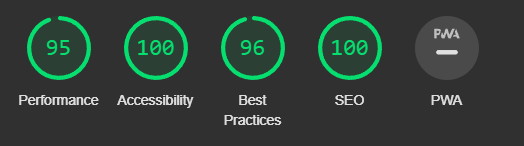
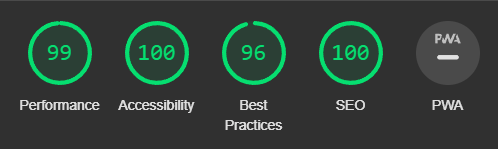
added new performance data after carrying out tweaks to html files and css to help improve this

diff --git a/club.html b/club.html
@@ -4,12 +4,12 @@
     <meta charset="UTF-8">
     <meta http-equiv="X-UA-Compatible" content="IE=edge">
     <meta name="viewport" content="width=device-width, initial-scale=1.0">
+    <!--Preload for hero image-->
+    <link rel="preload" as="image" href="assets/images/club.webp">
     <!--preconnect for offsite resources-->
     <link rel="preconnect" href="https://fonts.googleapis.com">
     <link rel="preconnect" href="https://fonts.gstatic.com/">
     <link rel="preconnect" href="https://ka-f.fontawesome.com">
-    <!--Preload for hero image-->
-    <link rel="preload" as="image" href="assets/images/club.webp">
     <!--bootstrap stylesheet-->
     <link rel="stylesheet" href="https://cdn.jsdelivr.net/npm/bootstrap@4.2.1/dist/css/bootstrap.min.css" integrity="sha384-GJzZqFGwb1QTTN6wy59ffF1BuGJpLSa9DkKMp0DgiMDm4iYMj70gZWKYbI706tWS" crossorigin="anonymous">
     <!--Hover Css-->

diff --git a/contact.html b/contact.html
@@ -4,12 +4,12 @@
     <meta charset="UTF-8">
     <meta http-equiv="X-UA-Compatible" content="IE=edge">
     <meta name="viewport" content="width=device-width, initial-scale=1.0">
+    <!--Preload for hero image-->
+    <link rel="preload" as="image" href="assets/images/club.webp">
     <!--preconnect for offsite resources-->
     <link rel="preconnect" href="https://fonts.googleapis.com">
     <link rel="preconnect" href="https://fonts.gstatic.com/">
     <link rel="preconnect" href="https://ka-f.fontawesome.com">
-    <!--Preload for hero image-->
-    <link rel="preload" as="image" href="assets/images/club.webp">
     <!--bootstrap stylesheet-->
     <link rel="stylesheet" href="https://cdn.jsdelivr.net/npm/bootstrap@4.2.1/dist/css/bootstrap.min.css" integrity="sha384-GJzZqFGwb1QTTN6wy59ffF1BuGJpLSa9DkKMp0DgiMDm4iYMj70gZWKYbI706tWS" crossorigin="anonymous">
     <!--Hover Css-->

diff --git a/README.md b/README.md
@@ -450,35 +450,35 @@ Overall loading times and performance were tested using Google’s lighthouse to
 <summary>Home Page</summary>
 <img src="docs/home-performance.png">
 <br>
-
+The main issue seen here is LCP, specifically due to render delay for the hero image which is around 2,880ms on average over multiple tests. Steps have been taken to improve this, such as pre-caching the image in HTML, shifting where the image is called in the CSS file, shifting to webp files and compressing the file to sub 200kb to minimise load times. However I am unable to reduce this further. 
 </details>
 
 <details>
 <summary>Club Page</summary>
 <img src="docs/club-performance.png">
 <br>
-The main callouts provided here were around improperly sized images, the hero image itself and again suggestions to preconnect to google fonts and having render blocking resources from bootstrap, hoverr.css and fontawesome. 
+Unlike the home page, the club page shows much better LCP times, with its render delay being the main culprit with times averaging around 1,050ms. The same techniques for the homepage are being used here to preload the hero image to ensure speedy response times. 
 </details>
 
 <details>
 <summary>Contact Page</summary>
 <img src="docs/contact-performance.png">
 <br>
-The only two main negative callouts were again suggestions to preconnect to google fonts and having render blocking resources from bootstrap, hoverr.css and fontawesome. 
+The main issue highlighted on the contact page was that bootstrap and hover.css are blocking the first paint of the page. However the impact is very negligable. 
 </details>
 
 <details>
 <summary>Response Page</summary>
 <img src="docs/response-performance.png">
 <br>
-The two main negative callouts were due to having render blocking resources from bootstrap, hoverr.css and fontawesome and also a suggestion to reduce unused CSS, which was highlighted as coming from Bootstrap and FontAwesome. 
+Much like the contact page, the main issue highlighted on the response page was that bootstrap and hover.css are blocking the first paint of the page. However the impact is very negligable. 
 </details>
 
 <details>
 <summary>404 Page</summary>
 <img src="docs/404-performance.png">
 <br>
-This page only had a singular call out, which was the render blocking resources from from bootstrap, hoverr.css and fontawesome.
+This page only had a singular call out, which was the render blocking resources from from bootstrap. Again, this isnt overly impacting performance in testing so isnt a huge issue. 
 </details>
 
 </details>
@@ -489,39 +489,39 @@ This page only had a singular call out, which was the render blocking resources 
 <details>
 <summary>Home Page</summary>
 <img src="docs/home-performance-mob.png">
-<br>Performance issues were suggested to be relating to the hero image. Render Blocking resources from Bootstrap, Hover.css and FontAwesome CDNs, specifically relating to their externally sourced CSS and JS. Similarly, Bootstrap and FontAwesome were also called out for having unused CSS. 
+<br>Much like on the desktop, the hero image is presenting the mainstay of issues here despite steps taken to try to mitigate this. This time with the LCP being 15.5s
 <br>
-The accessability score was dropped due one of the column images being seen as low quality. 
+The Best Practices score was dropped due the column images being seen as low resolution, specifically the 'build.webp' image, interestingly the other two images were not called out, despite them all being the same size and DPI. 
 </details>
 
 <details>
 <summary>Club Page</summary>
 <img src="docs/club-performance-mob.png">
 <br>
-Like with the home page performance issues were suggested to be relating to the hero image. Render Blocking resources from Bootstrap, Hover.css and FontAwesome CDNs, specifically relating to their externally sourced CSS and JS. Similarly, Bootstrap and FontAwesome were also called out for having unused CSS. 
+Like with the home page performance issues were suggested to be relating to the hero image. With the main issue again being render delay, hitting 7,330ms. 
 </details>
 
 <details>
 <summary>Contact Page</summary>
 <img src="docs/contact-performance-mob.png">
 <br>
-Much like with the previous two pages performance issues were suggested to be relating to the hero image. Render Blocking resources from Bootstrap, Hover.css and FontAwesome CDNs, specifically relating to their externally sourced CSS and JS. Similarly, Bootstrap and FontAwesome were also called out for having unused CSS. 
+As with the other tests, the render delay for the hero image is again dragging the performance score down, with it hitting 2,440ms. 
 </details>
 
 <details>
 <summary>Response Page</summary>
 <img src="docs/response-performance-mob.png">
 <br>
-Much like with the previous two pages performance issues were suggested to be relating to the hero image. Render Blocking resources from Bootstrap, Hover.css and FontAwesome CDNs, specifically relating to their externally sourced CSS and JS. Similarly, Bootstrap and FontAwesome were also called out for having unused CSS. Additionally their was a suggestion the comm array image could be reduced in size further and also that a preconnect/prefetch could be used on the font-awesome CDN. 
+Again, we see the hero image showing issues with render delay of around 2,750ms. 
 </details>
 
 <details>
 <summary>404 Page</summary>
 <img src="docs/404-performance-mob.png">
 <br>
-This was, unsurprisingly the most performant of the pages tested, it also being the most minimal. Main callouts were around the same render blocking resources - this is due to essentially copy pasting over the initial index.html file and ripping out all but the header and building a near empty page, so removing the uneeded links to CSS/Javascript resources could help improve this. 
+This was, much like with the desktop tests, the most performant of pages due to having had the third party javascript and unneeded style sheets stripped out. 
 <br>
-The Best Practice call out was due to a low image quality on the lost.webp file. 
+The Best Practice call out was due to a low image resolution on the lost.webp file. 
 </details>
 
 </details>
